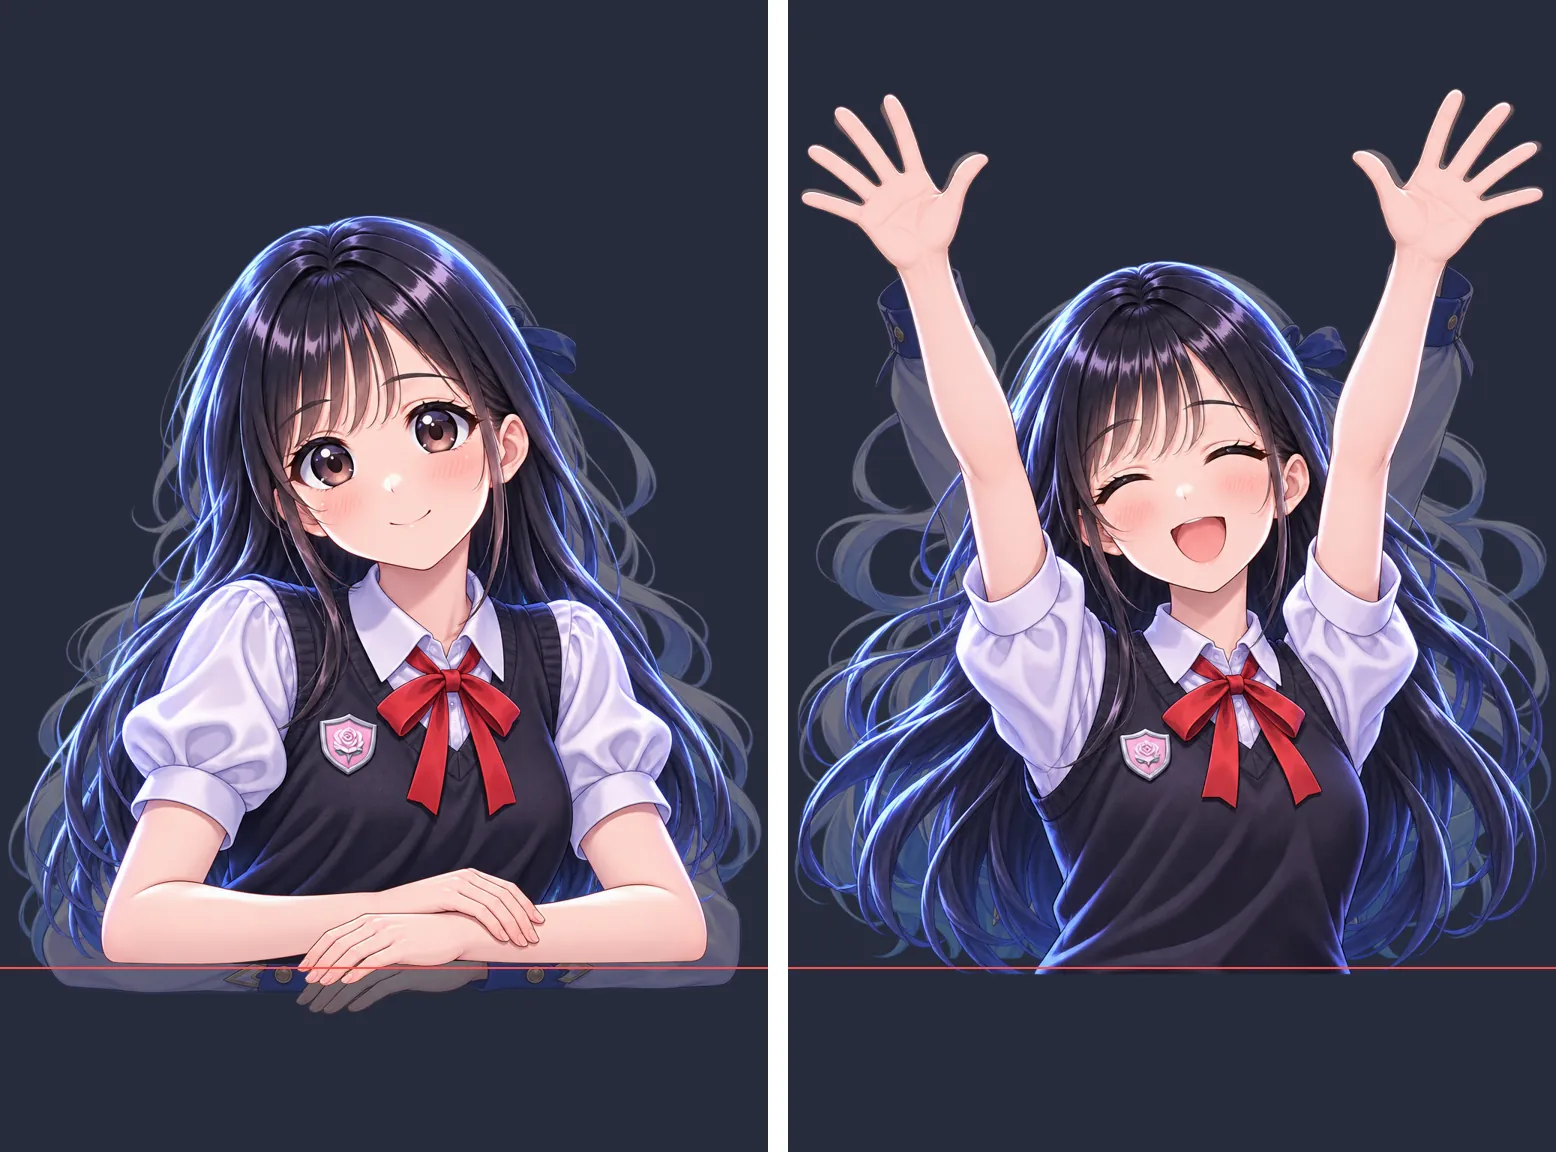
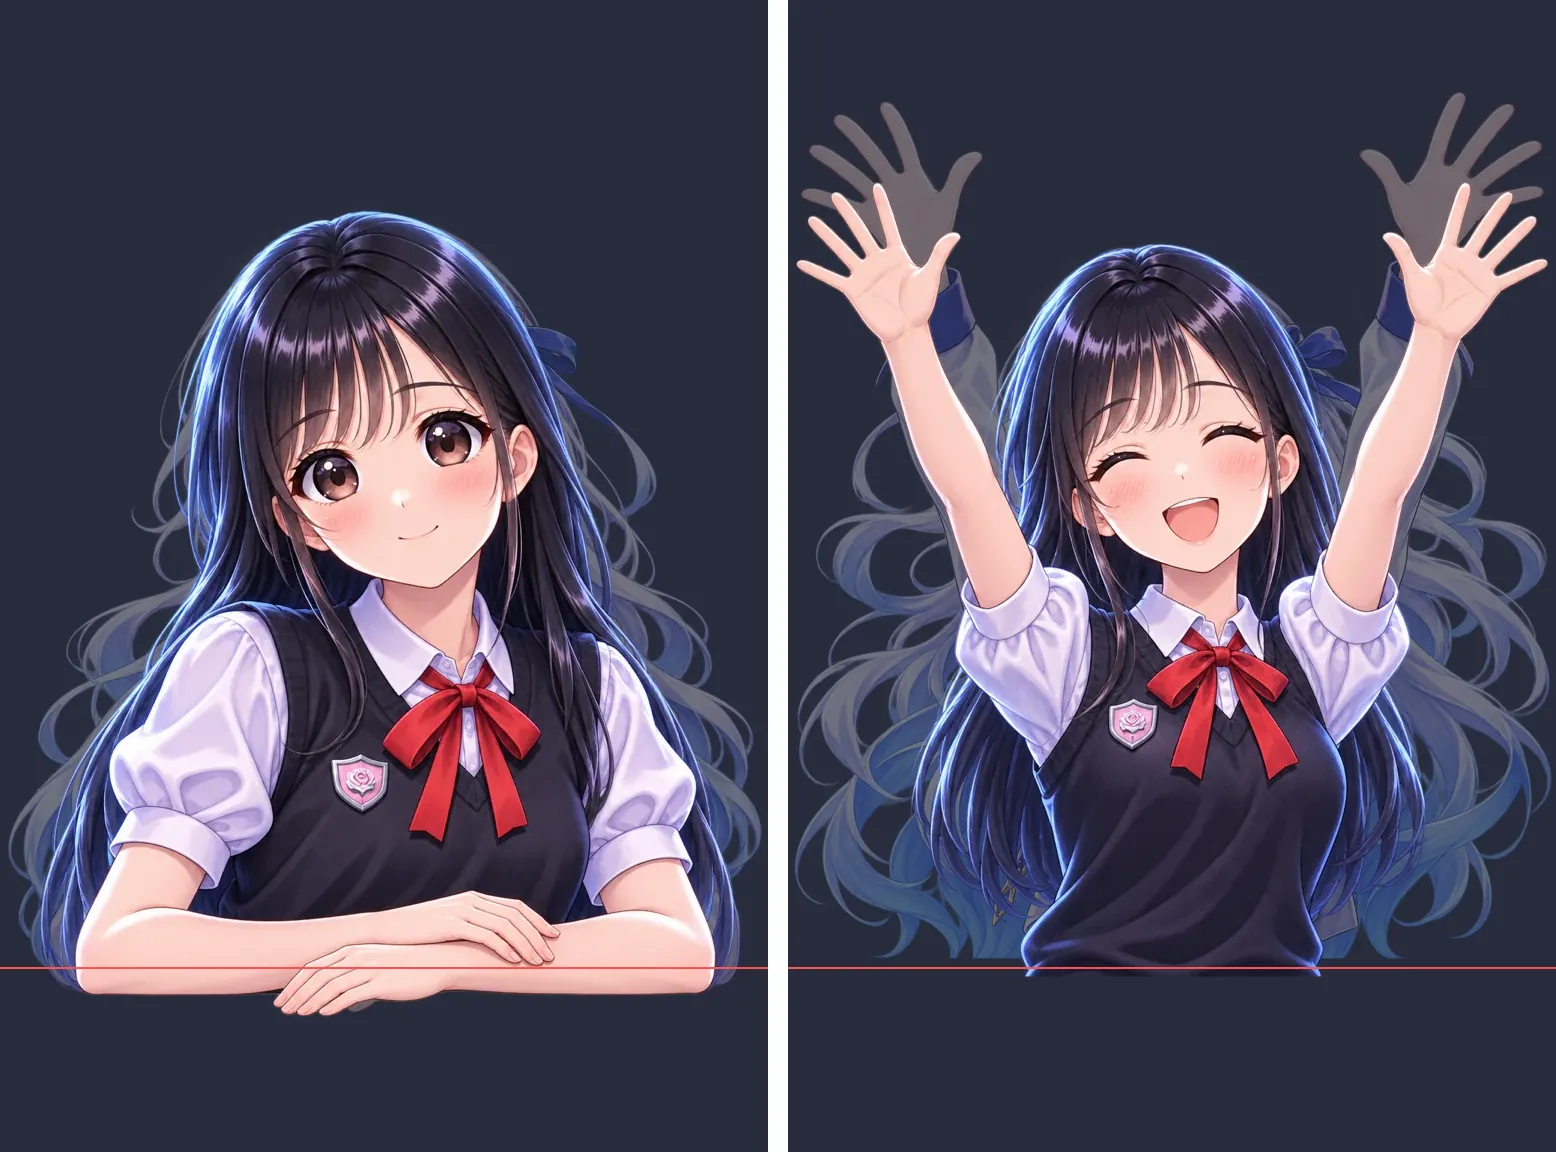
docs: tidier hair for the new mascot's gift-board poses and expression sheet, with a wider cheer (#343)

Changed region(s): [[0.0, 0.0625, 1.0, 0.9062]]

diff --git a/docs/design/mascot/README.md b/docs/design/mascot/README.md
@@ -11,7 +11,7 @@
 | 人 | 成年女性，约 23 岁，168 cm，偏瘦但有运动感；立绘约 6.5–7 头身 |
 | 性格 | 社恐、有点天然呆、脑子转得慢；喜欢 cos、爬山、骑行、唱歌；健身新手，经常把自己弄伤 |
 | 脸 | 圆脸，很大的圆眼，深棕色大瞳孔，外眼角略下垂；腮红带几道短斜线（照 Q 版）。眉毛原本偏浓但她不喜欢，画得浅、整齐，大半藏在刘海后面 |
-| 头发 | 纯黑长直发到后背中间，蓝黑色光泽、高光带蓝；空气刘海分成几簇尖角，两侧各一缕碎发 |
+| 头发 | 纯黑长直发到后背中间，蓝黑色光泽、高光带蓝；空气刘海分成几簇尖角，两侧各一缕碎发。头发成几大束、轮廓光滑、发梢收拢，动起来是整束摆动，不画一圈散开的细发丝（甲方嫌毛糙） |
 | 衣服 | 白色短袖翻领衬衫（泡泡袖）、宽松的黑色无袖针织马甲、红色细领结、黑色百褶裙到膝盖、白色中筒袜、棕色乐福鞋 |
 | 徽章 | 右胸（正面看在领结左边），盾形，银边，粉紫色底上一朵白粉玫瑰，照 Q 版 |
 | 创可贴 | 只在左膝（正面看在右边），对应"经常把自己弄伤" |
@@ -84,10 +84,12 @@
 
 | 姿势 | 截断线（占图高，`scene.mjs` 的锚点） | 旧姿势图 |
 |---|---|---|
-| 平时 `peek-idle` | 0.855 | 0.880 |
-| 欢呼 `peek-cheer` | 0.845 | 0.832 |
+| 平时 `peek-idle` | 0.881 | 0.880 |
+| 欢呼 `peek-cheer` | 0.847 | 0.832 |
 
-她身上带一圈冷蓝边缘光，黑发放在暗的直播画面上也看得出轮廓。
+她身上带一圈冷蓝边缘光，黑发放在暗的直播画面上也看得出轮廓。头发成束往下垂，欢呼时也只占画布约 67% 宽，不向两边炸开。
+
+欢呼的两臂约 26°（离竖直方向），成 V 字。这个画布和比例下约 30° 是上限：再大手会伸出画布，礼物榜上右手也会碰到停在她右肩上方的精灵（现在右手离精灵约 22 px）。要开到 35–40°，得加宽画布、在清单里把她的精灵挪远。
 
 ## 拆层
 

diff --git a/docs/design/mascot/prompts.md b/docs/design/mascot/prompts.md
@@ -17,6 +17,7 @@
 | 6 | 把 F1 拆成两层 | 抠图模型抠不好细发丝，改用绿幕，见下文 |
 | 7 | 登录页、礼物榜姿势图 | 登录页出两张选 L1（光带从手机流过卡片后面，头离标题更远）并拆层；姿势图每个姿势两张，选截断线最接近的一对 |
 | 8 | 用户说 Q 版身体比例再小点 | 原来那张约 2.8 头身；提示词写明约 2 头身、下巴到腰不到半个头、腰到脚底约半个头，出四张选最矮的 C6（约 2.1）。侧面远侧的手被身体挡住，用 codex 补上指尖，只把那一小块贴回原图 |
+| 9 | 甲方嫌两边飘起的头发毛糙、欢呼两臂开得不够 | 头发规则写进 `sheet-base`、`scene-base`、`peek-base` 和负向词；姿势图、人设图 B 重出（平时 idle-a、欢呼 cheer-c、B-a），启动页、登录页另改 |
 
 ## 生图
 
@@ -57,6 +58,8 @@
 | 发呆、打哈欠在写实画风下像放电 | `sheet-negative.txt`（sultry、heavy-lidded with parted lips） |
 | 侧面只画出一只手 | `sheet-A.txt` 写明远侧的手在臀后露出指尖；`sheet-negative.txt` |
 | 头发偏棕 | `sheet-base.txt` 写明纯黑；`sheet-negative.txt` |
+| 头发两边炸开、一圈细飘发，显得毛糙 | `sheet-base.txt`、`scene-base.txt`、`peek-base.txt` 的 HAIR SHAPE 段；两个负向词文件加 frizzy、flyaway |
+| 欢呼两臂照着旧欢呼图开得很窄（约 21°） | `gen-peek.sh` 的构图参考一律用旧的平时那张；`peek-cheer.txt` 写明约 30°、手离左右边约 6% |
 | Q 版身体偏长（约 2.8 头身） | `chibi.txt` 写明约 2 头身和躯干、腿各占多少；负向词加上 more than 2.2 heads tall、long legs |
 | 头顶太靠上、挥手贴近右边 | `scene-pose.txt` 写明头顶约 15%、指尖离右边至少 10% |
 | 裙子短、露大腿 | `scene-negative.txt` |
